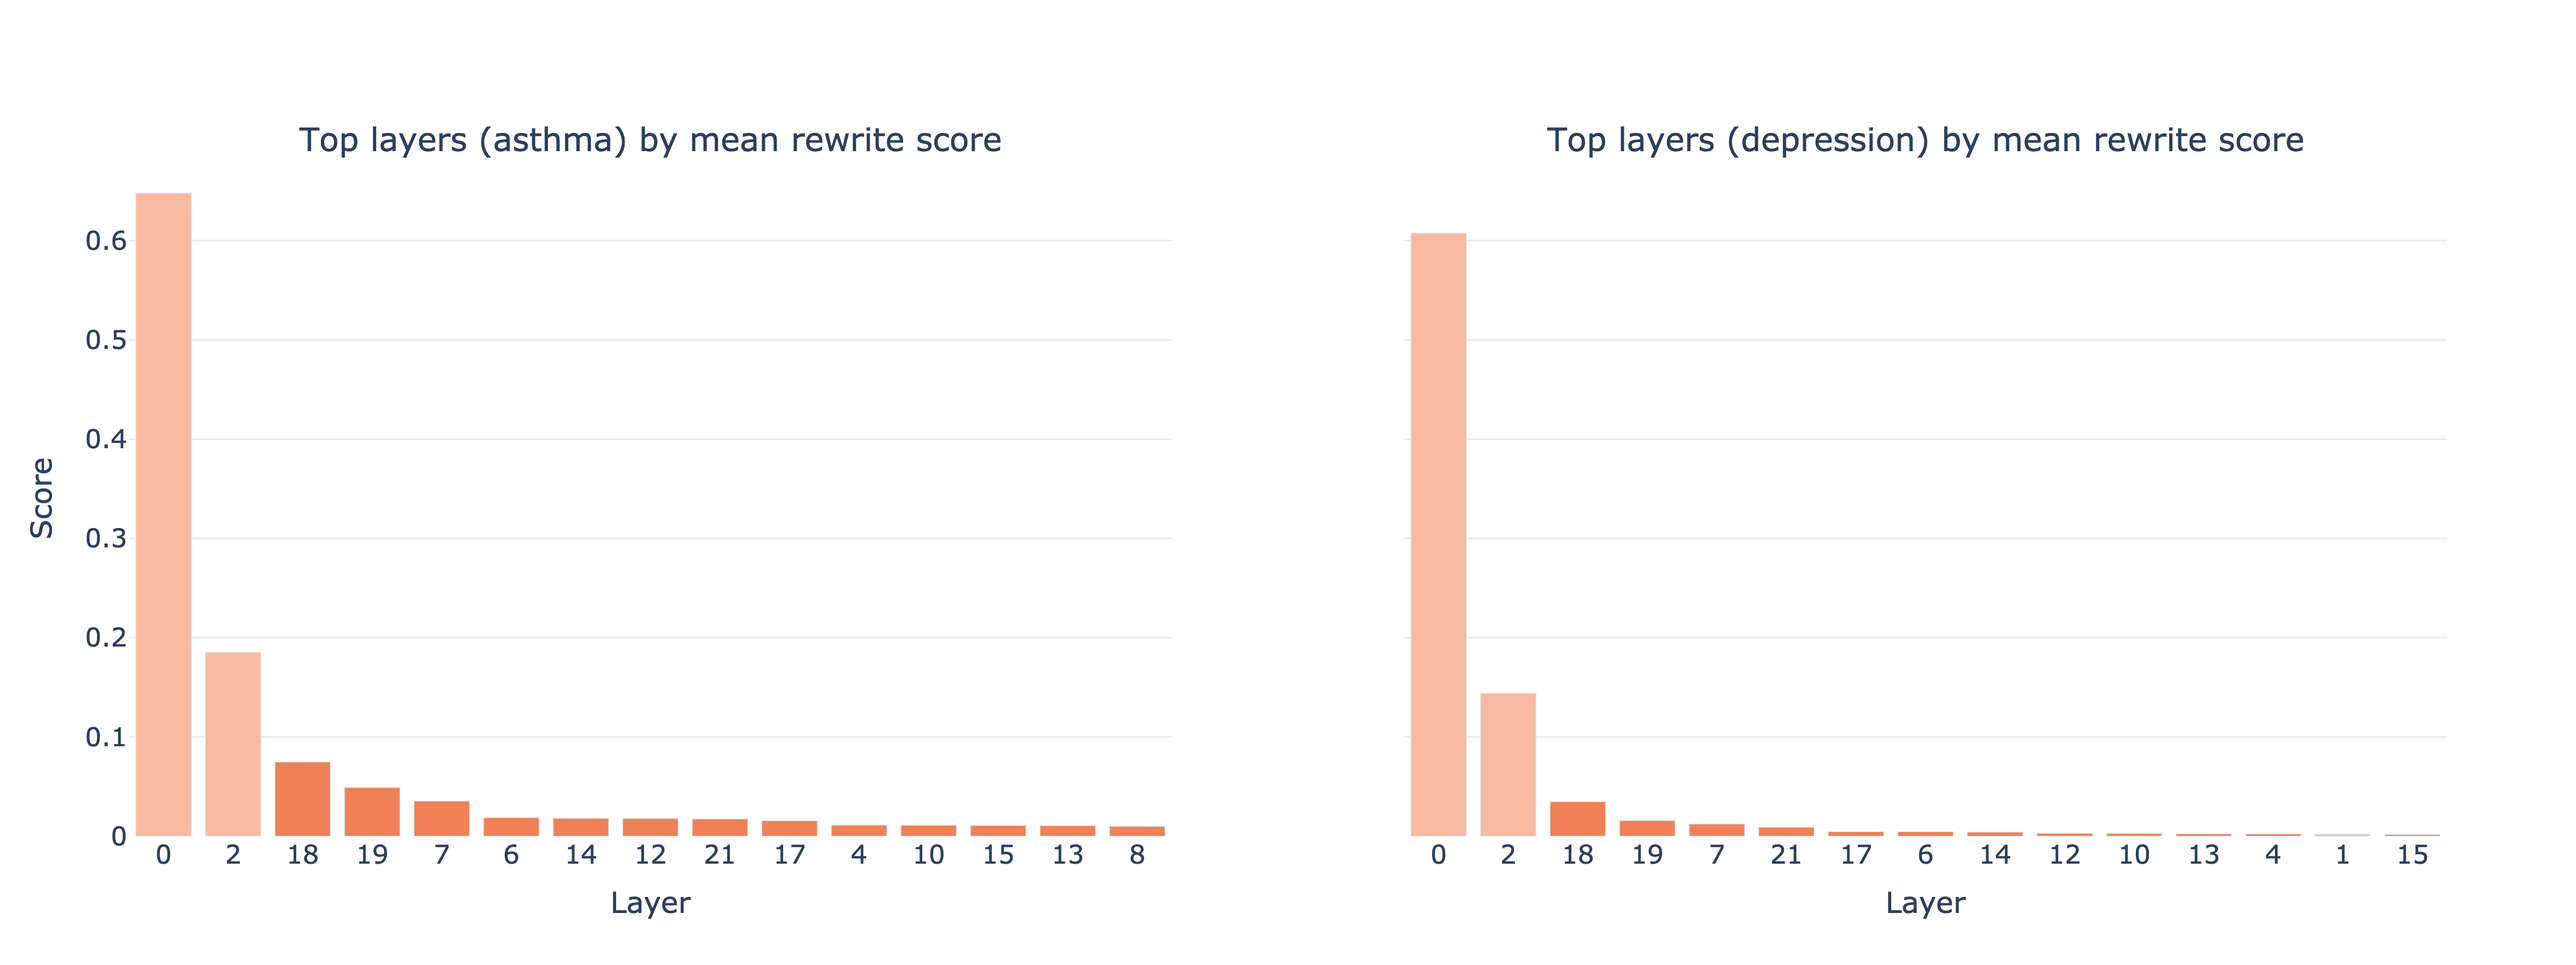
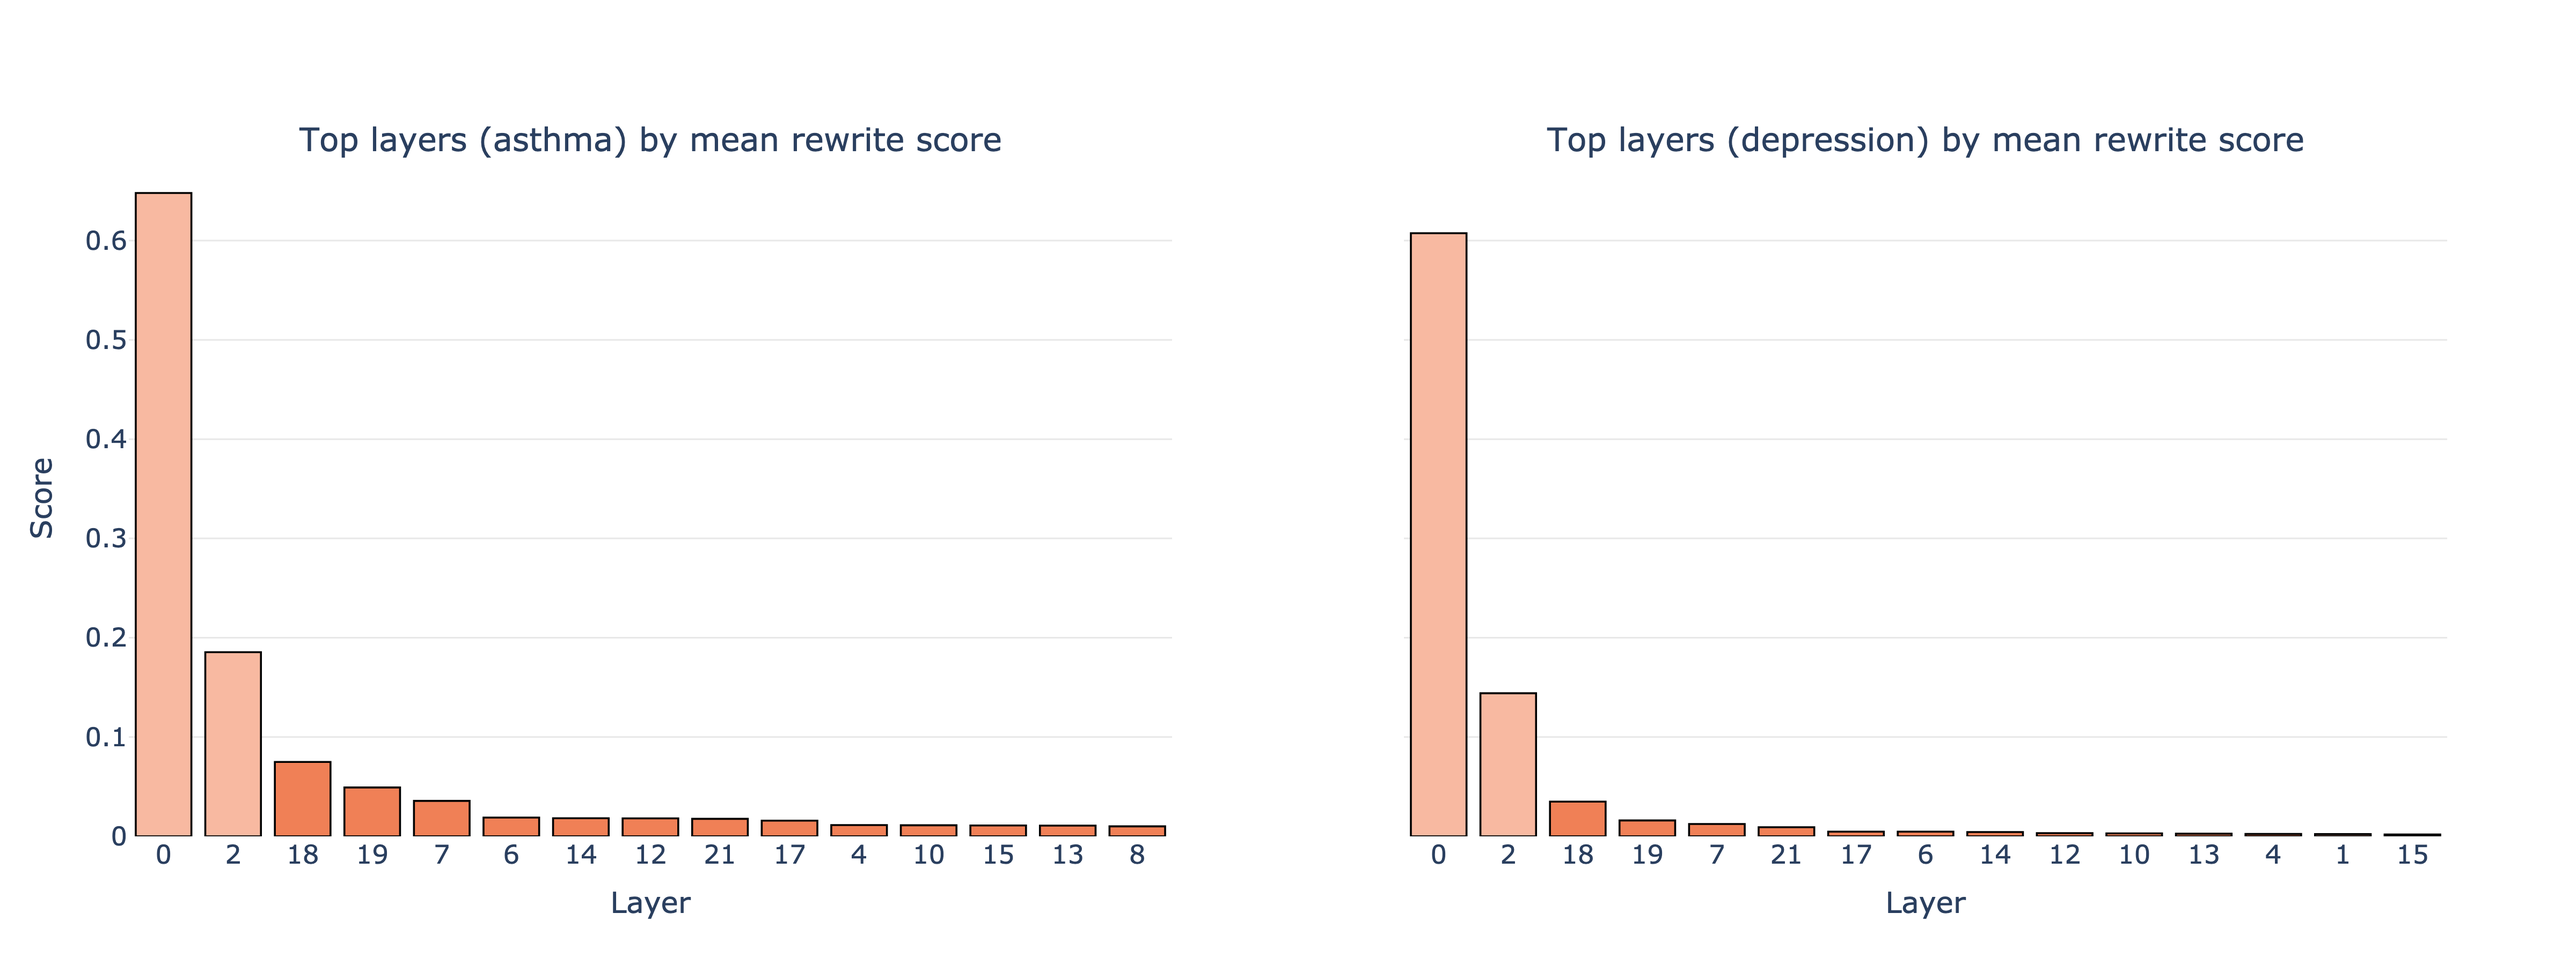
Apply review feedback to paper figures
- fig1: drop redundant "Mean P(...)" legend wording (y-axis already reads
  Probability; mean framing moves to the caption), add thin black outlines
  so bars stand out
- fig2: add matching bar outlines; add fig2c averaging top layers across
  all 5 conditions
- fig4: remove the olmo31_rewrite_only / female5_patch_male source-label
  subscripts from the model headers
- fig5: crop to layers 0-21 and to tokens with max |score| >= 0.05 to cut
  x-axis crowding, reformat token labels, title-case headings. Display
  filtering only - no values changed.

diff --git a/paper_figures/README.md b/paper_figures/README.md
@@ -12,11 +12,26 @@ data" per figure below.
 | `fig1_gender_probs_by_condition.png` | Grouped bar: mean P(Male) vs P(Female) at the forced "Gender:" next-token, one pair per condition (7 conditions, x-order alphabetical) | `activation_patching/simple_patching/female_bias_run1/summary.json` → `by_condition` |
 | `fig2a_toplayers_asthma.png` | Top-15 layers by mean rewrite score, asthma cohort, descending, layers 0/1/2 muted as artifact bars | `activation_patching/simple_patching/female5_patch_male/aggregate_per_layer.json` → `raw_units` (cohort=asthma), same aggregation as `plot_top_layers_bar` |
 | `fig2b_toplayers_depression.png` | Same as above, depression cohort | same file, cohort=depression |
-| `fig2_toplayers_combined_asthma_depression.png` | Side-by-side asthma / depression version of the two above, shared y-axis | same as fig2a/fig2b |
+| `fig2c_toplayers_all_conditions.png` | Same as above, averaged across **all 5 cohorts** (asthma, depression, multiple sclerosis, rheumatoid arthritis, sarcoidosis; 155 units) | same file, all `raw_units` |
+| `fig2_toplayers_combined_asthma_depression.png` | Side-by-side asthma / depression version, shared y-axis | same as fig2a/fig2b |
 | `fig4_layer18_condition_token_table.png` | Booktabs-style table: layer-18 condition-token rewrite score, OLMo-7B vs Qwen2.5-7B, 5 conditions. Max/min cell bolded. | Values supplied directly by the user (team's canonical numbers — the values committed in `olmo31_rewrite_only/` and `female5_patch_male/condition_token_analysis/` in this repo are an older/different run and do **not** match; see caveat below) |
 | `fig5a_mlp_heatmap_asthma_prompt1.png` | Layer × token heatmap of rewrite score, Qwen simple-prompt MLP patching, asthma prompt 1, divergent green(+)/orange(−) scale centered at 0 | `activation_patching/simple_patching/female5_patch_male/artifacts/asthma_prompt1.pkl` |
 | `fig5b_mlp_heatmap_rheumatoid_arthritis_prompt1.png` | Same, rheumatoid arthritis prompt 1 | `activation_patching/simple_patching/female5_patch_male/artifacts/rheumatoid_arthritis_prompt1.pkl` |
 | `fig5_mlp_heatmaps_combined_asthma_ra.png` | Stacked combined version of fig5a (top) + fig5b (bottom), shared colorbar/z-scale | same two `.pkl` files |
+
+## Display filtering (fig5 only)
+
+The heatmaps are cropped for legibility in a paper column — **no values were
+altered**, only rows/columns hidden:
+
+- **Layers:** trimmed to a contiguous band, layers 0–21. Layers 22–27 carry
+  essentially no signal in either condition (max |score| < 0.09 for asthma,
+  < 0.005 for rheumatoid arthritis).
+- **Tokens:** kept only columns whose max |rewrite score| across the shown
+  layers is ≥ 0.05. Asthma 55 → 47 tokens; rheumatoid arthritis 58 → 29.
+- Both panels of the combined figure share the same layer range so cell
+  heights stay uniform and the two conditions remain directly comparable.
+- Token tick labels are reformatted from `' patient_16'` to `patient (16)`.
 
 ## Caveat on `fig4`
 
